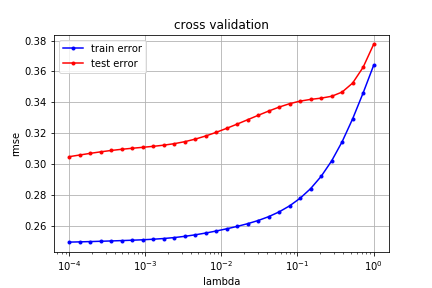
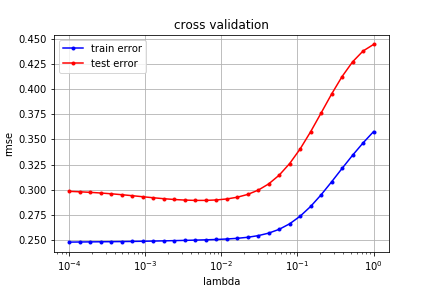
ex04 corrected

Changed region(s): [[0.0, 0.125, 0.9028, 0.8438]]

diff --git a/ex4/build_polynomial.py b/ex4/build_polynomial.py
@@ -7,7 +7,7 @@ import numpy as np
 def build_poly(x, degree):
     """polynomial basis functions for input data x, for j=0 up to j=degree."""
     poly = np.ones((len(x), 1))
-    for deg in range(1, degree):
+    for deg in range(1, degree+1):
         poly = np.c_[poly, np.power(x, deg)]
     return poly
             
